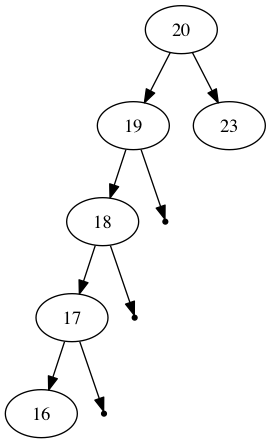
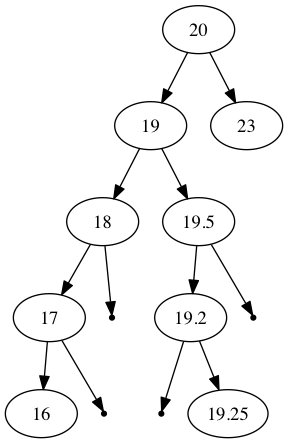
Pushing some changes.

diff --git a/src/bst.py b/src/bst.py
@@ -231,7 +231,8 @@ class BST(object):
         delete_node.value = cursor.value
         if cursor.right:
             self._one_child(cursor, 'right')
-        self._no_children(cursor)
+        else:
+            self._no_children(cursor)
 
     def delete(self, val):
         """Remove the value of choice from the BST."""
@@ -274,9 +275,13 @@ if __name__ == '__main__':
     b = BST([20])
     b.contains(20)  # Best case this is an O(n)
     b.insert(19)
+    b.insert(19.5)
+    b.insert(19.2)
+    b.insert(19.25)
     b.insert(18)
     b.insert(17)
     b.insert(16)
     b.insert(23)
     b.contains(16)  # Worst case this is also an O(n)
+    b.delete(19)
     b.write_graph()

diff --git a/src/test_bst.py b/src/test_bst.py
@@ -274,9 +274,15 @@ def test_delete_not_there(traversals):
     """Test the deletion of a node that not exist returns None."""
     outcome = traversals.delete(5)
     assert outcome is None
-    
+
 
 def test_delete_no_kids_there(traversals):
     """Test the deletion of a node that not exist returns None."""
     outcome = traversals.delete(4)
+    assert outcome is None
+
+
+def test_delete_one_kids_there(traversals):
+    """Test the deletion of a node that not exist returns None."""
+    outcome = traversals.delete(14)
     assert outcome is None
